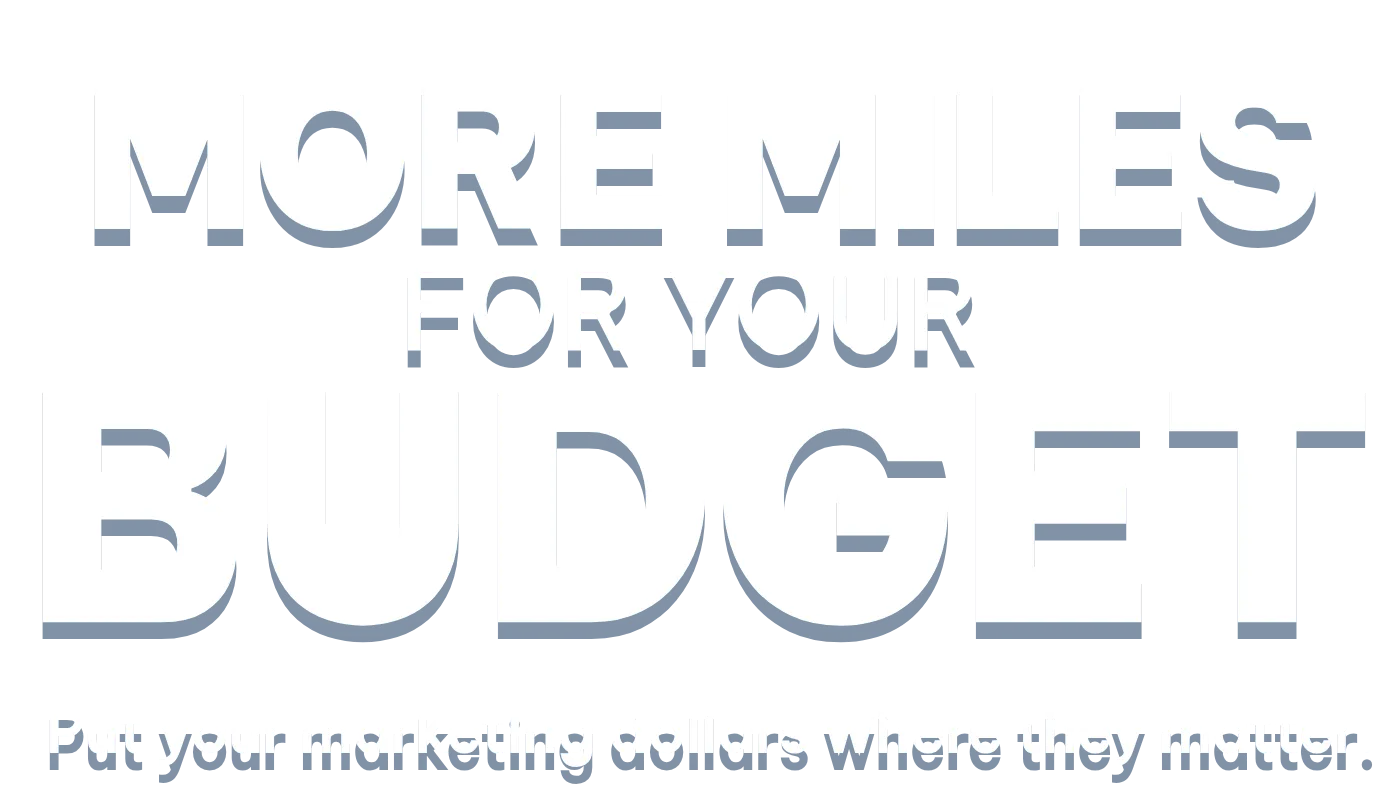
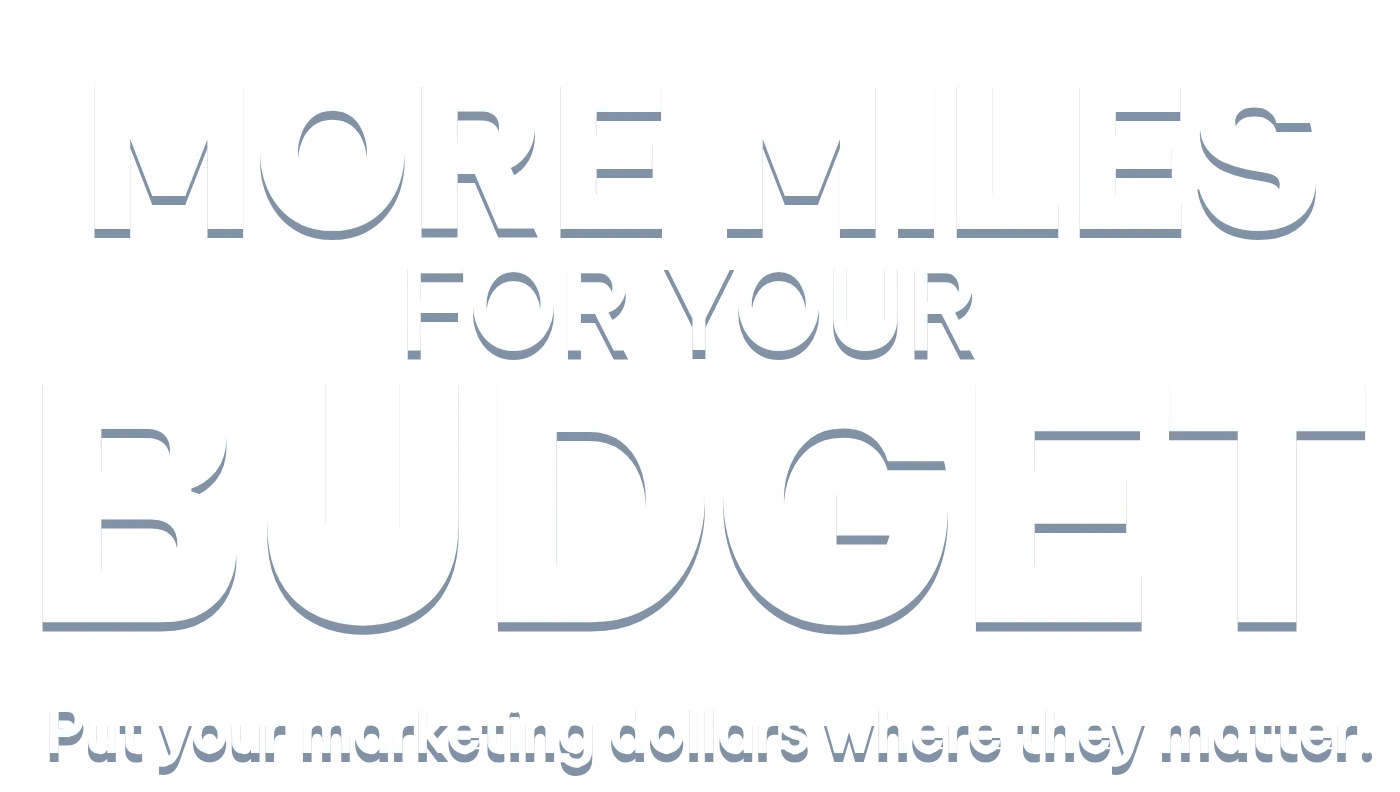
His header, properly; and his line three hundred higher
HIS MOON WAS NOT DARK - IT WAS THE ILLUSTRATOR BUG AGAIN. Moon.svg carries
38 mix-blend-mode attributes and Sun.svg five, and a browser ignores every
one of them: mix-blend-mode is a CSS property, not an SVG presentation
attribute. His moon face is drawn as SCREEN over a near-black ball, so
with the blend dropped what renders is the ball. Same for isolation, also
CSS-only, which the pair need to keep their blending to themselves. Both
run through tools/fix_illustrator_blend_modes.py now and his moon is his
moon: blue-white, cratered, with the glow he drew round it.

HIS PHONE, NOT AN ENVELOPE, on CONTACT US.

HIS SHIELD IN THE MIDDLE OF THE BAR, absolutely placed rather than in the
flex row so it centres on the WINDOW and not on whatever is left after the
lockup and the nav have taken their share, and hanging a little below the
bar the way a badge does.

AND HIS SHADOW LAYER. The bar in Header.svg is 114.28 of a 158.15-tall
file: the other 44 is a shadow, a hard dark edge with a soft fall under
it. A box-shadow alone is the soft half and misses the line, which is the
half you notice.

THE SKY LINE IS THREE HUNDRED PIXELS HIGHER, on the 970 window he
measures these on: in at 0.271 rather than 0.58, stopping at 0.07 rather
than 0.31. The exit is the one number short of the full 300 - at 0.001
the MIDDLE of the line sits on the top edge with half the type off the
screen, so it stops where the line still fits under it. Measured: 563 ->
[…]

diff --git a/build/v2/page.html b/build/v2/page.html
@@ -38,21 +38,22 @@ section + section{ margin-top:-1px }</style>
 <header class="hdr">
   <div class="hdr-in">
     <button class="mode-switch" type="button" aria-label="Switch to night">
-      <img class="to-night" src="../../assets/brand/Moon.svg" alt="">
-      <img class="to-day" src="../../assets/brand/Sun.svg" alt="">
+      <img class="to-night" src="../../assets/v2/header/moon.svg" alt="">
+      <img class="to-day" src="../../assets/v2/header/sun.svg" alt="">
     </button>
     <a class="hdr-logo" href="#top">
       <span class="hdr-lock">HIGHWAY<i>19</i>MEDIA</span>
       <span class="hdr-rule"></span>
       <span class="hdr-tag">Creative Marketing for Tampa Bay Businesses</span>
     </a>
+    <img class="hdr-shield" src="../../assets/v2/ui-shield.webp" alt="Highway 19 Media">
     <nav class="hdr-nav">
       <a href="#services">Services</a>
       <a href="#roadmap">The Road Map</a>
       <a href="#qa">Q&amp;A</a>
     </nav>
     <a class="hdr-cta" href="#contact">
-      <svg viewBox="0 0 24 24" aria-hidden="true" fill="none" stroke="currentColor" stroke-width="2.2" stroke-linecap="round" stroke-linejoin="round"><path d="M4 5h16v14H4z"/><path d="m4 6 8 6 8-6"/></svg>
+      <svg viewBox="0 0 24 24" aria-hidden="true" fill="currentColor"><path d="M6.6 2.6a2 2 0 0 1 2.8.5l1.7 2.5a2 2 0 0 1-.3 2.6l-1.2 1a11.6 11.6 0 0 0 3.5 3.5l1-1.2a2 2 0 0 1 2.6-.3l2.5 1.7a2 2 0 0 1 .5 2.8l-1.1 1.6a3 3 0 0 1-3.4 1.1C11.2 20.4 3.6 12.8 1.9 6.5A3 3 0 0 1 3 3.1z"/></svg>
       Contact Us
     </a>
   </div>
@@ -4542,9 +4543,15 @@ section + section{ margin-top:-1px }</style>
          of the shape the icon sits in. Centred in the box, every icon sat six
          per cent of a card to the right of the colour it belongs to. The
          shield's own middle is 44.03% of the label, which is 45.22% of the
-         card. -->
+         card.
+
+         AND A FIFTH SMALLER THAN HE DREW THEM, which is his call: at his own
+         width they crowd the shield they sit in. Each one keeps its VERTICAL
+         CENTRE where he put it rather than its top edge - shrink about the
+         top and an icon walks up out of its own shield by half of whatever it
+         lost. -->
       <img class="icon" src="../../assets/v2/section-06/icon-webdesign.webp" alt=""
-         style="left:30.57%;top:-2.5%;width:29.31%">
+         style="left:33.5%;top:-1.42%;width:23.45%">
     <h3>Website <br>Design</h3>
     <p><b>Your business. Open 24/7.</b>Custom websites, landing pages, <span class="nb">e-commerce</span>, and ongoing updates - built to make you look professional, get found, and turn visitors into customers.</p>
     <span class="btn">Explore This Lane</span>
@@ -4553,7 +4560,7 @@ section + section{ margin-top:-1px }</style>
   <article class="card" tabindex="0" style="left:36.43%;--c:#662d91">
     <svg class="label" viewBox="0 0 137.3 95" xmlns="http://www.w3.org/2000/svg" aria-hidden="true"><polygon class="fold" points="137.3 15.2 62.5 15.2 62.5 .8 120.9 0 137.3 15.2"/><path class="body" d="M0,.2h120.92v34.34c0,33.37-27.09,60.46-60.46,60.46h0C27.09,95,0,67.91,0,34.54V.2H0Z"/></svg>
     <img class="icon" src="../../assets/v2/section-06/icon-video.webp" alt=""
-         style="left:32.47%;top:-1.86%;width:25.5%">
+         style="left:35.02%;top:-0.92%;width:20.4%">
     <h3>Video <br>Production</h3>
     <p><b>Show them what you do best.</b>We come to you and capture the real people, work, products, and services behind your business - then turn it into video that gets attention.</p>
     <span class="btn">Explore This Lane</span>
@@ -4562,7 +4569,7 @@ section + section{ margin-top:-1px }</style>
   <article class="card" tabindex="0" style="left:51.22%;--c:#d4145a">
     <svg class="label" viewBox="0 0 137.3 95" xmlns="http://www.w3.org/2000/svg" aria-hidden="true"><polygon class="fold" points="137.3 15.2 62.5 15.2 62.5 .8 120.9 0 137.3 15.2"/><path class="body" d="M0,.2h120.92v34.34c0,33.37-27.09,60.46-60.46,60.46h0C27.09,95,0,67.91,0,34.54V.2H0Z"/></svg>
     <img class="icon" src="../../assets/v2/section-06/icon-print.webp" alt=""
-         style="left:29.6%;top:-2.95%;width:31.25%">
+         style="left:32.72%;top:-1.97%;width:25.0%">
     <h3>Print <br>&amp; Branding</h3>
     <p><b>Look the part. Everywhere.</b>Logos, business cards, flyers, catalogs, signage, vehicle graphics, branded merchandise, and more - one consistent look wherever customers find you.</p>
     <span class="btn">Explore This Lane</span>
@@ -4571,7 +4578,7 @@ section + section{ margin-top:-1px }</style>
   <article class="card" tabindex="0" style="left:66.02%;--c:#f7931e">
     <svg class="label" viewBox="0 0 137.3 95" xmlns="http://www.w3.org/2000/svg" aria-hidden="true"><polygon class="fold" points="137.3 15.2 62.5 15.2 62.5 .8 120.9 0 137.3 15.2"/><path class="body" d="M0,.2h120.92v34.34c0,33.37-27.09,60.46-60.46,60.46h0C27.09,95,0,67.91,0,34.54V.2H0Z"/></svg>
     <img class="icon" src="../../assets/v2/section-06/icon-social.webp" alt=""
-         style="left:30.57%;top:-2.6%;width:29.31%">
+         style="left:33.5%;top:-1.52%;width:23.45%">
     <h3>Social Media <br>&amp; Paid Ads</h3>
     <p><b>Put some traffic behind it.</b>Content, social media management, Google Ads, Meta Ads, targeting, and campaign management &mdash; built to put your business in front of the right local customers.</p>
     <span class="btn">Explore This Lane</span>

diff --git a/build/v2/drive.html b/build/v2/drive.html
@@ -1286,7 +1286,8 @@ const AHEAD=MOBILE?620:420;
    Near: it is out well before the projection starts stretching it, and still
    a good deal closer than AHEAD, which is where it is meant to be read. */
 const SIGN_FAR=MOBILE?3400:2000, SIGN_FADE=900,
-      SIGN_NEAR=MOBILE?380:210, SIGN_NEAR_FADE=MOBILE?200:150;
+      SIGN_NEAR=MOBILE?380:210, SIGN_NEAR_FADE=MOBILE?200:150,
+      COPY_NEAR=MOBILE?380:230, COPY_NEAR_FADE=MOBILE?200:170;
 /* HIS LINE IN THE MIDDLE OF THE ROAD. It used to say "Highway 19 Media",
    which names the company to somebody who has been reading its name since the
    first screen; he has replaced it with MORE MILES / FOR YOUR / BUDGET, drawn
@@ -1548,6 +1549,13 @@ function place(drive){
        nothing is lost but the distortion. */
     if(it.cls==='sign'||it.cls==='truss'||it.cls==='pole')
       up=Math.min(up, smooth((SIGN_FAR-D)/SIGN_FADE), smooth((D-SIGN_NEAR)/SIGN_NEAR_FADE));
+    /* AND HIS BLOCK GOES THE SAME WAY. Type driven under is type stretched:
+       three lines that read cleanly at the stop are four letters across the
+       whole frame a moment later, and then they slide off the edges rather
+       than passing. It is out before that, which for a thing you have already
+       read costs nothing. */
+    if(it.cls==='copy')
+      up=Math.min(up, smooth((D-COPY_NEAR)/COPY_NEAR_FADE));
     if(up<=0.004){it.el.style.opacity=0;if(it.sh)it.sh.style.opacity=0;
       if(it.ft)it.ft.style.opacity=0;continue}
     it.el.style.opacity=up;
@@ -1792,16 +1800,18 @@ function tick(now){
     /* AND WHERE IT STOPS IS HIS NUMBER, NOT THE HORIZON'S. The hold used to be
        0.62 of the way down to the horizon, which on this scene works out at
        0.40 - so the line stopped a tenth of a screen short of the top of the
-       band he asked for and never reached it. 0.31 is his, and it is well
-       clear of the horizon at 0.645 either way. */
-    const hold  = 0.31;
-    /* AND IT NEVER LEAVES THE BAND HE MARKED. It arrives at 0.58 of the way
-       down the window and stops climbing at 0.31 - two hundred pixels above
-       where it came in and a hundred above where it used to stop, on the
-       970-pixel window he measured them on. Both are hard limits, not numbers
-       the geometry is trusted to land on.
+       band he asked for and never reached it. This is his number now. */
+    const hold  = 0.07;
+    /* AND IT NEVER LEAVES THE BAND HE SET. Three hundred pixels higher again,
+       on the 970-pixel window he measures these on: it arrives at 0.271 of
+       the way down rather than 0.58, and stops climbing at 0.07 rather than
+       0.31. The exit is the one number that is not the full 300 - at 0.001
+       the MIDDLE of the line would sit on the top edge of the window with
+       half the type off the screen, so it stops where the line still fits
+       under it, which is a little over half its own height down. Both are
+       hard limits, not numbers the geometry is trusted to land on.
 
-       BELOW 0.58 IT IS NOT ON THE SCREEN AT ALL. Letting it slide up through
+       BELOW 0.271 IT IS NOT ON THE SCREEN AT ALL. Letting it slide up through
        the bottom edge put half a line of it under the fold, which is outside
        the band as surely as being over the cards would be; and he does not
        want it faded in, so it cannot arrive by getting brighter either. It is
@@ -1809,7 +1819,7 @@ function tick(now){
        whole line to stand inside the band, and then it is simply there. */
     const y = (cy + road) / 2;
     runway.style.setProperty('--hello-y',
-      Math.round((y > 0.58 ? 1.5 : Math.max(hold, y)) * innerHeight) + 'px');
+      Math.round((y > 0.271 ? 1.5 : Math.max(hold, y)) * innerHeight) + 'px');
     runway.style.setProperty('--hello', String(1 - smooth(t / START)));
   }
   /* THE SHOW RUNS EXACTLY WHERE THE WORLD IS GOING. It lights the moment the

diff --git a/build/v2/drive.js b/build/v2/drive.js
@@ -650,7 +650,8 @@ const AHEAD=MOBILE?620:420;
    Near: it is out well before the projection starts stretching it, and still
    a good deal closer than AHEAD, which is where it is meant to be read. */
 const SIGN_FAR=MOBILE?3400:2000, SIGN_FADE=900,
-      SIGN_NEAR=MOBILE?380:210, SIGN_NEAR_FADE=MOBILE?200:150;
+      SIGN_NEAR=MOBILE?380:210, SIGN_NEAR_FADE=MOBILE?200:150,
+      COPY_NEAR=MOBILE?380:230, COPY_NEAR_FADE=MOBILE?200:170;
 /* HIS LINE IN THE MIDDLE OF THE ROAD. It used to say "Highway 19 Media",
    which names the company to somebody who has been reading its name since the
    first screen; he has replaced it with MORE MILES / FOR YOUR / BUDGET, drawn
@@ -912,6 +913,13 @@ function place(drive){
        nothing is lost but the distortion. */
     if(it.cls==='sign'||it.cls==='truss'||it.cls==='pole')
       up=Math.min(up, smooth((SIGN_FAR-D)/SIGN_FADE), smooth((D-SIGN_NEAR)/SIGN_NEAR_FADE));
+    /* AND HIS BLOCK GOES THE SAME WAY. Type driven under is type stretched:
+       three lines that read cleanly at the stop are four letters across the
+       whole frame a moment later, and then they slide off the edges rather
+       than passing. It is out before that, which for a thing you have already
+       read costs nothing. */
+    if(it.cls==='copy')
+      up=Math.min(up, smooth((D-COPY_NEAR)/COPY_NEAR_FADE));
     if(up<=0.004){it.el.style.opacity=0;if(it.sh)it.sh.style.opacity=0;
       if(it.ft)it.ft.style.opacity=0;continue}
     it.el.style.opacity=up;
@@ -1156,16 +1164,18 @@ function tick(now){
     /* AND WHERE IT STOPS IS HIS NUMBER, NOT THE HORIZON'S. The hold used to be
        0.62 of the way down to the horizon, which on this scene works out at
        0.40 - so the line stopped a tenth of a screen short of the top of the
-       band he asked for and never reached it. 0.31 is his, and it is well
-       clear of the horizon at 0.645 either way. */
-    const hold  = 0.31;
-    /* AND IT NEVER LEAVES THE BAND HE MARKED. It arrives at 0.58 of the way
-       down the window and stops climbing at 0.31 - two hundred pixels above
-       where it came in and a hundred above where it used to stop, on the
-       970-pixel window he measured them on. Both are hard limits, not numbers
-       the geometry is trusted to land on.
+       band he asked for and never reached it. This is his number now. */
+    const hold  = 0.07;
+    /* AND IT NEVER LEAVES THE BAND HE SET. Three hundred pixels higher again,
+       on the 970-pixel window he measures these on: it arrives at 0.271 of
+       the way down rather than 0.58, and stops climbing at 0.07 rather than
+       0.31. The exit is the one number that is not the full 300 - at 0.001
+       the MIDDLE of the line would sit on the top edge of the window with
+       half the type off the screen, so it stops where the line still fits
+       under it, which is a little over half its own height down. Both are
+       hard limits, not numbers the geometry is trusted to land on.
 
-       BELOW 0.58 IT IS NOT ON THE SCREEN AT ALL. Letting it slide up through
+       BELOW 0.271 IT IS NOT ON THE SCREEN AT ALL. Letting it slide up through
        the bottom edge put half a line of it under the fold, which is outside
        the band as surely as being over the cards would be; and he does not
        want it faded in, so it cannot arrive by getting brighter either. It is
@@ -1173,7 +1183,7 @@ function tick(now){
        whole line to stand inside the band, and then it is simply there. */
     const y = (cy + road) / 2;
     runway.style.setProperty('--hello-y',
-      Math.round((y > 0.58 ? 1.5 : Math.max(hold, y)) * innerHeight) + 'px');
+      Math.round((y > 0.271 ? 1.5 : Math.max(hold, y)) * innerHeight) + 'px');
     runway.style.setProperty('--hello', String(1 - smooth(t / START)));
   }
   /* THE SHOW RUNS EXACTLY WHERE THE WORLD IS GOING. It lights the moment the

diff --git a/build/v2/section-06.html b/build/v2/section-06.html
@@ -849,9 +849,15 @@
          of the shape the icon sits in. Centred in the box, every icon sat six
          per cent of a card to the right of the colour it belongs to. The
          shield's own middle is 44.03% of the label, which is 45.22% of the
-         card. -->
+         card.
+
+         AND A FIFTH SMALLER THAN HE DREW THEM, which is his call: at his own
+         width they crowd the shield they sit in. Each one keeps its VERTICAL
+         CENTRE where he put it rather than its top edge - shrink about the
+         top and an icon walks up out of its own shield by half of whatever it
+         lost. -->
       <img class="icon" src="../../assets/v2/section-06/icon-webdesign.webp" alt=""
-         style="left:30.57%;top:-2.5%;width:29.31%">
+         style="left:33.5%;top:-1.42%;width:23.45%">
     <h3>Website <br>Design</h3>
     <p><b>Your business. Open 24/7.</b>Custom websites, landing pages, <span class="nb">e-commerce</span>, and ongoing updates - built to make you look professional, get found, and turn visitors into customers.</p>
     <span class="btn">Explore This Lane</span>
@@ -860,7 +866,7 @@
   <article class="card" tabindex="0" style="left:36.43%;--c:#662d91">
     <svg class="label" viewBox="0 0 137.3 95" xmlns="http://www.w3.org/2000/svg" aria-hidden="true"><polygon class="fold" points="137.3 15.2 62.5 15.2 62.5 .8 120.9 0 137.3 15.2"/><path class="body" d="M0,.2h120.92v34.34c0,33.37-27.09,60.46-60.46,60.46h0C27.09,95,0,67.91,0,34.54V.2H0Z"/></svg>
     <img class="icon" src="../../assets/v2/section-06/icon-video.webp" alt=""
-         style="left:32.47%;top:-1.86%;width:25.5%">
+         style="left:35.02%;top:-0.92%;width:20.4%">
     <h3>Video <br>Production</h3>
     <p><b>Show them what you do best.</b>We come to you and capture the real people, work, products, and services behind your business - then turn it into video that gets attention.</p>
     <span class="btn">Explore This Lane</span>
@@ -869,7 +875,7 @@
   <article class="card" tabindex="0" style="left:51.22%;--c:#d4145a">
     <svg class="label" viewBox="0 0 137.3 95" xmlns="http://www.w3.org/2000/svg" aria-hidden="true"><polygon class="fold" points="137.3 15.2 62.5 15.2 62.5 .8 120.9 0 137.3 15.2"/><path class="body" d="M0,.2h120.92v34.34c0,33.37-27.09,60.46-60.46,60.46h0C27.09,95,0,67.91,0,34.54V.2H0Z"/></svg>
     <img class="icon" src="../../assets/v2/section-06/icon-print.webp" alt=""
-         style="left:29.6%;top:-2.95%;width:31.25%">
+         style="left:32.72%;top:-1.97%;width:25.0%">
     <h3>Print <br>&amp; Branding</h3>
     <p><b>Look the part. Everywhere.</b>Logos, business cards, flyers, catalogs, signage, vehicle graphics, branded merchandise, and more - one consistent look wherever customers find you.</p>
     <span class="btn">Explore This Lane</span>
@@ -878,7 +884,7 @@
   <article class="card" tabindex="0" style="left:66.02%;--c:#f7931e">
     <svg class="label" viewBox="0 0 137.3 95" xmlns="http://www.w3.org/2000/svg" aria-hidden="true"><polygon class="fold" points="137.3 15.2 62.5 15.2 62.5 .8 120.9 0 137.3 15.2"/><path class="body" d="M0,.2h120.92v34.34c0,33.37-27.09,60.46-60.46,60.46h0C27.09,95,0,67.91,0,34.54V.2H0Z"/></svg>
     <img class="icon" src="../../assets/v2/section-06/icon-social.webp" alt=""
-         style="left:30.57%;top:-2.6%;width:29.31%">
+         style="left:33.5%;top:-1.52%;width:23.45%">
     <h3>Social Media <br>&amp; Paid Ads</h3>
     <p><b>Put some traffic behind it.</b>Content, social media management, Google Ads, Meta Ads, targeting, and campaign management &mdash; built to put your business in front of the right local customers.</p>
     <span class="btn">Explore This Lane</span>

diff --git a/build/v2/header.css b/build/v2/header.css
@@ -29,7 +29,12 @@
   height:var(--hh);
   background:linear-gradient(90deg,#00287d 0%,#0459bd 42%,#0358bc 48%,
     #02459e 62%,#013887 75%,#002f7a 88%,#002d76 100%);
-  box-shadow:0 2px 14px rgba(0,20,60,.38);
+  /* HIS SHADOW LAYER. The bar in Header.svg is 114.28 of a 158.15-tall file:
+     the other 44 is a shadow he drew under it, a hard dark edge and a soft
+     fall below that. A box-shadow alone is the soft half and misses the line,
+     which is the half you notice. */
+  border-bottom:2px solid rgba(0,8,26,.55);
+  box-shadow:0 3px 4px rgba(0,10,35,.42), 0 14px 26px rgba(0,16,50,.30);
   /* RETRACTS ON THE WAY DOWN AND COMES BACK ON THE WAY UP. A transform, not a
      height: a transform is the one thing that costs the compositor nothing,
      and the page below it never reflows. */
@@ -68,6 +73,14 @@
   font-weight:600; font-size:calc(var(--hh) * .1135); letter-spacing:.045em;
   text-transform:uppercase }
 
+/* HIS SHIELD, IN THE MIDDLE OF THE BAR. Absolutely placed rather than in the
+   flex row, so it is centred on the WINDOW and not on whatever is left over
+   after the lockup and the nav have taken their share. It hangs a little
+   below the bar the way a badge does. */
+.hdr-shield{ position:absolute; left:50%; top:calc(var(--hh) * .10);
+  translate:-50% 0; height:calc(var(--hh) * 1.06); width:auto;
+  filter:drop-shadow(0 3px 7px rgba(0,10,35,.5)); pointer-events:none }
+
 .hdr-nav{ margin-left:auto; display:flex; gap:clamp(12px,2.4vw,52px) }
 .hdr-nav a{ color:#fff; text-decoration:none; white-space:nowrap;
   font-weight:500; font-size:calc(var(--hh) * .1847);
@@ -87,7 +100,7 @@
   transition:transform .18s ease, box-shadow .18s ease;
 }
 .hdr-cta:hover{ transform:translateY(-1px); box-shadow:0 4px 14px rgba(0,10,40,.45) }
-.hdr-cta svg{ width:1.15em; height:1.15em; display:block }
+.hdr-cta svg{ width:1.25em; height:1.25em; display:block }
 
 /* THE PAGE STARTS UNDER IT. The bar is fixed, so without this the top of
    section one is behind it on first paint. */
@@ -100,5 +113,6 @@ body{ padding-top:var(--hh) }
   .hdr-nav{ display:none }
   .hdr-tag{ display:none }
   .hdr-rule{ display:none }
+  .hdr-shield{ display:none }
   .hdr-cta{ margin-left:auto }
 }

diff --git a/tools/make_page.js b/tools/make_page.js
@@ -18,23 +18,25 @@ const HEADER =
   '<header class="hdr">\n' +
   '  <div class="hdr-in">\n' +
   '    <button class="mode-switch" type="button" aria-label="Switch to night">\n' +
-  '      <img class="to-night" src="../../assets/brand/Moon.svg" alt="">\n' +
-  '      <img class="to-day" src="../../assets/brand/Sun.svg" alt="">\n' +
+  '      <img class="to-night" src="../../assets/v2/header/moon.svg" alt="">\n' +
+  '      <img class="to-day" src="../../assets/v2/header/sun.svg" alt="">\n' +
   '    </button>\n' +
   '    <a class="hdr-logo" href="#top">\n' +
   '      <span class="hdr-lock">HIGHWAY<i>19</i>MEDIA</span>\n' +
   '      <span class="hdr-rule"></span>\n' +
   '      <span class="hdr-tag">Creative Marketing for Tampa Bay Businesses</span>\n' +
   '    </a>\n' +
+  '    <img class="hdr-shield" src="../../assets/v2/ui-shield.webp" alt="Highway 19 Media">\n' +
   '    <nav class="hdr-nav">\n' +
   '      <a href="#services">Services</a>\n' +
   '      <a href="#roadmap">The Road Map</a>\n' +
   '      <a href="#qa">Q&amp;A</a>\n' +
   '    </nav>\n' +
   '    <a class="hdr-cta" href="#contact">\n' +
-  '      <svg viewBox="0 0 24 24" aria-hidden="true" fill="none" stroke="currentColor"' +
-       ' stroke-width="2.2" stroke-linecap="round" stroke-linejoin="round">' +
-       '<path d="M4 5h16v14H4z"/><path d="m4 6 8 6 8-6"/></svg>\n' +
+  '      <svg viewBox="0 0 24 24" aria-hidden="true" fill="currentColor">' +
+       '<path d="M6.6 2.6a2 2 0 0 1 2.8.5l1.7 2.5a2 2 0 0 1-.3 2.6l-1.2 1a11.6 11.6 0 0 0 3.5 3.5' +
+       'l1-1.2a2 2 0 0 1 2.6-.3l2.5 1.7a2 2 0 0 1 .5 2.8l-1.1 1.6a3 3 0 0 1-3.4 1.1' +
+       'C11.2 20.4 3.6 12.8 1.9 6.5A3 3 0 0 1 3 3.1z"/></svg>\n' +
   '      Contact Us\n' +
   '    </a>\n' +
   '  </div>\n' +

diff --git a/build/v2/section-06.css b/build/v2/section-06.css
@@ -283,7 +283,12 @@
    of each card is BeVietnamPro-SemiBold at 600 and the six under it are Light
    at 300; this had the lead at 500, which reads as barely emphasised beside
    its own body copy. */
-.sec6 .page .card p > b{ display:block; font-weight:600 }
+.sec6 .page .card p > b{ display:block; font-weight:600;
+  /* AND HALF A LINE UNDER IT. His lead and his body run as one block in the
+     SVG because Illustrator sets a paragraph as a stack of tspans on a fixed
+     leading and cannot say "a bit more here"; on a page it can. Half of the
+     1.09 line the copy is set on. */
+  margin-bottom:0.545em }
 .sec6 .page .card p .nb{ white-space:nowrap }
 /* It sits on his mark, but it is not there until you ask for it: it fades in
    while sliding UP INTO that mark, so the arrival reads as the button coming

diff --git a/tools/make_more_miles.js b/tools/make_more_miles.js
@@ -48,7 +48,7 @@ const body = fs.readFileSync(path.join(DIR, 'more-miles-src.svg'), 'utf8')
  * soft alpha over every edge where flat shapes had none - which is precisely
  * what a webp cannot pack. His own outlines, offset and darkened, are flat
  * shapes again, and flat shapes cost nothing. */
-const shadowOf = b => '<g transform="translate(0 5.5)" opacity=".5">' +
+const shadowOf = b => '<g transform="translate(0 3)" opacity=".5">' +
   b.split('fill="#fff"').join('fill="#04264f"') + '</g>';
 const ART =
 `<svg xmlns="http://www.w3.org/2000/svg" width="${W}" height="${H}" viewBox="0 0 ${W} ${H}">
